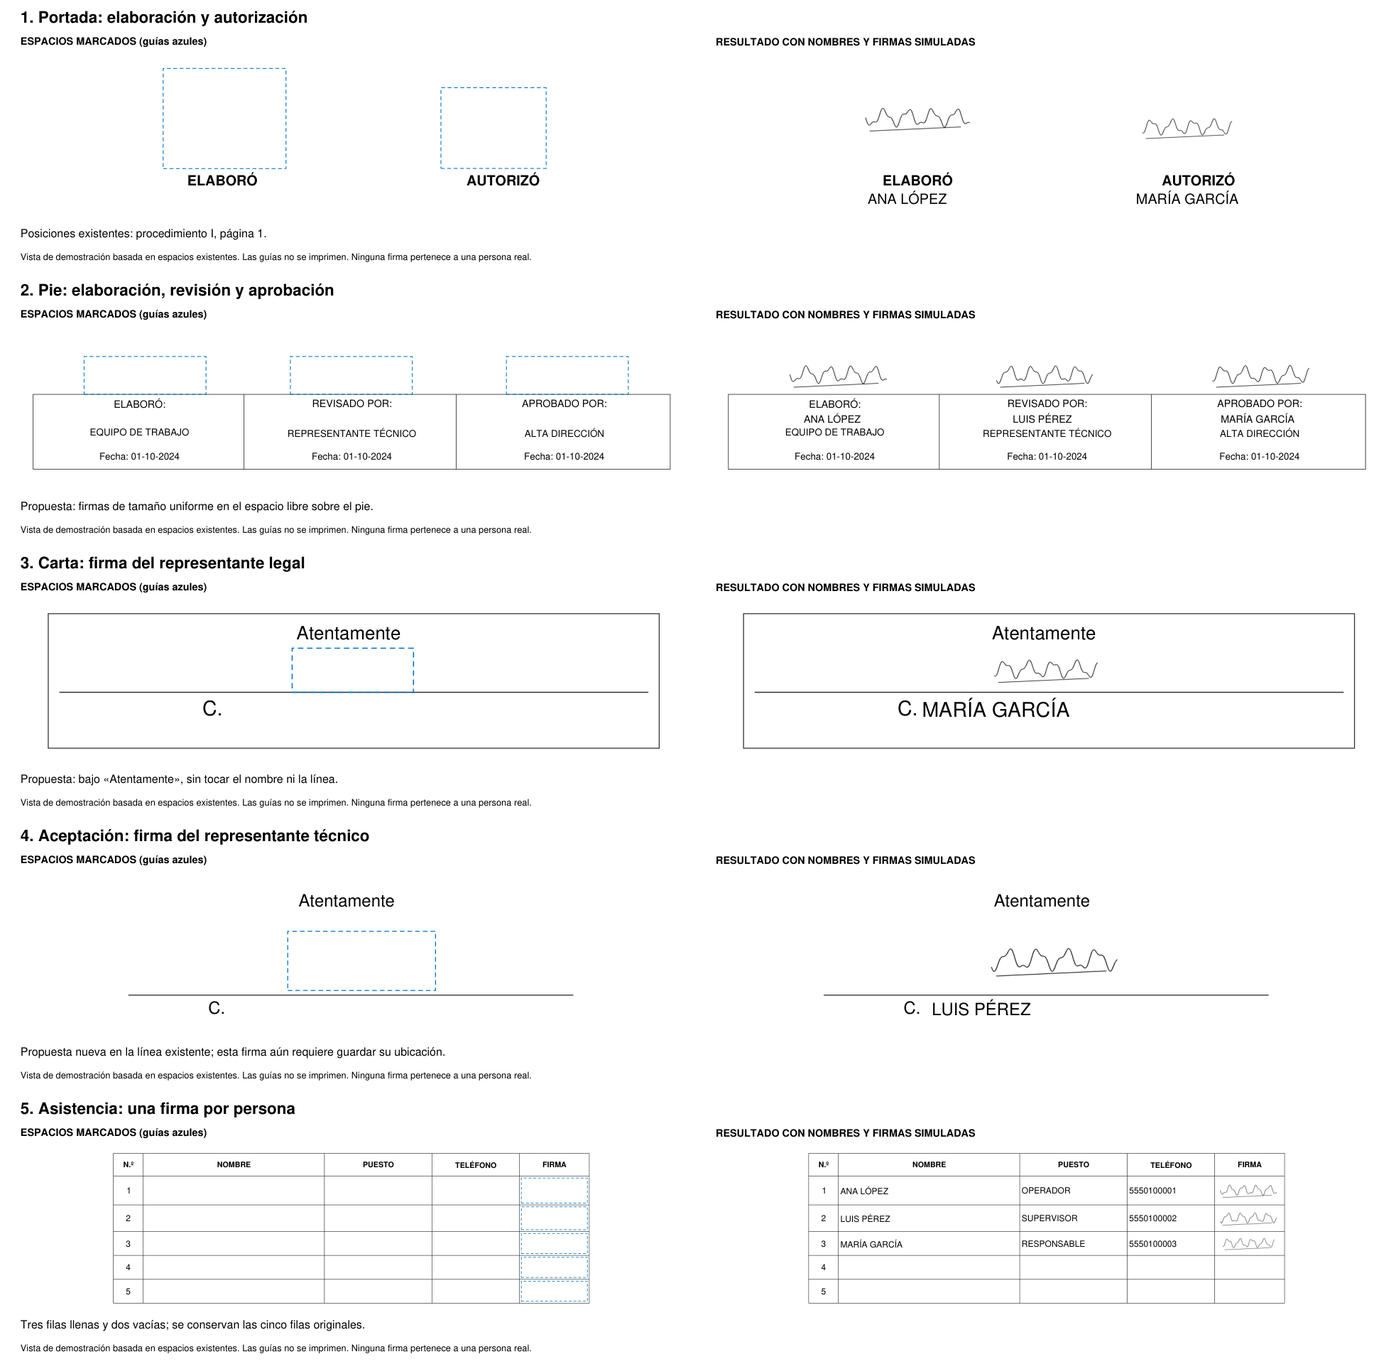
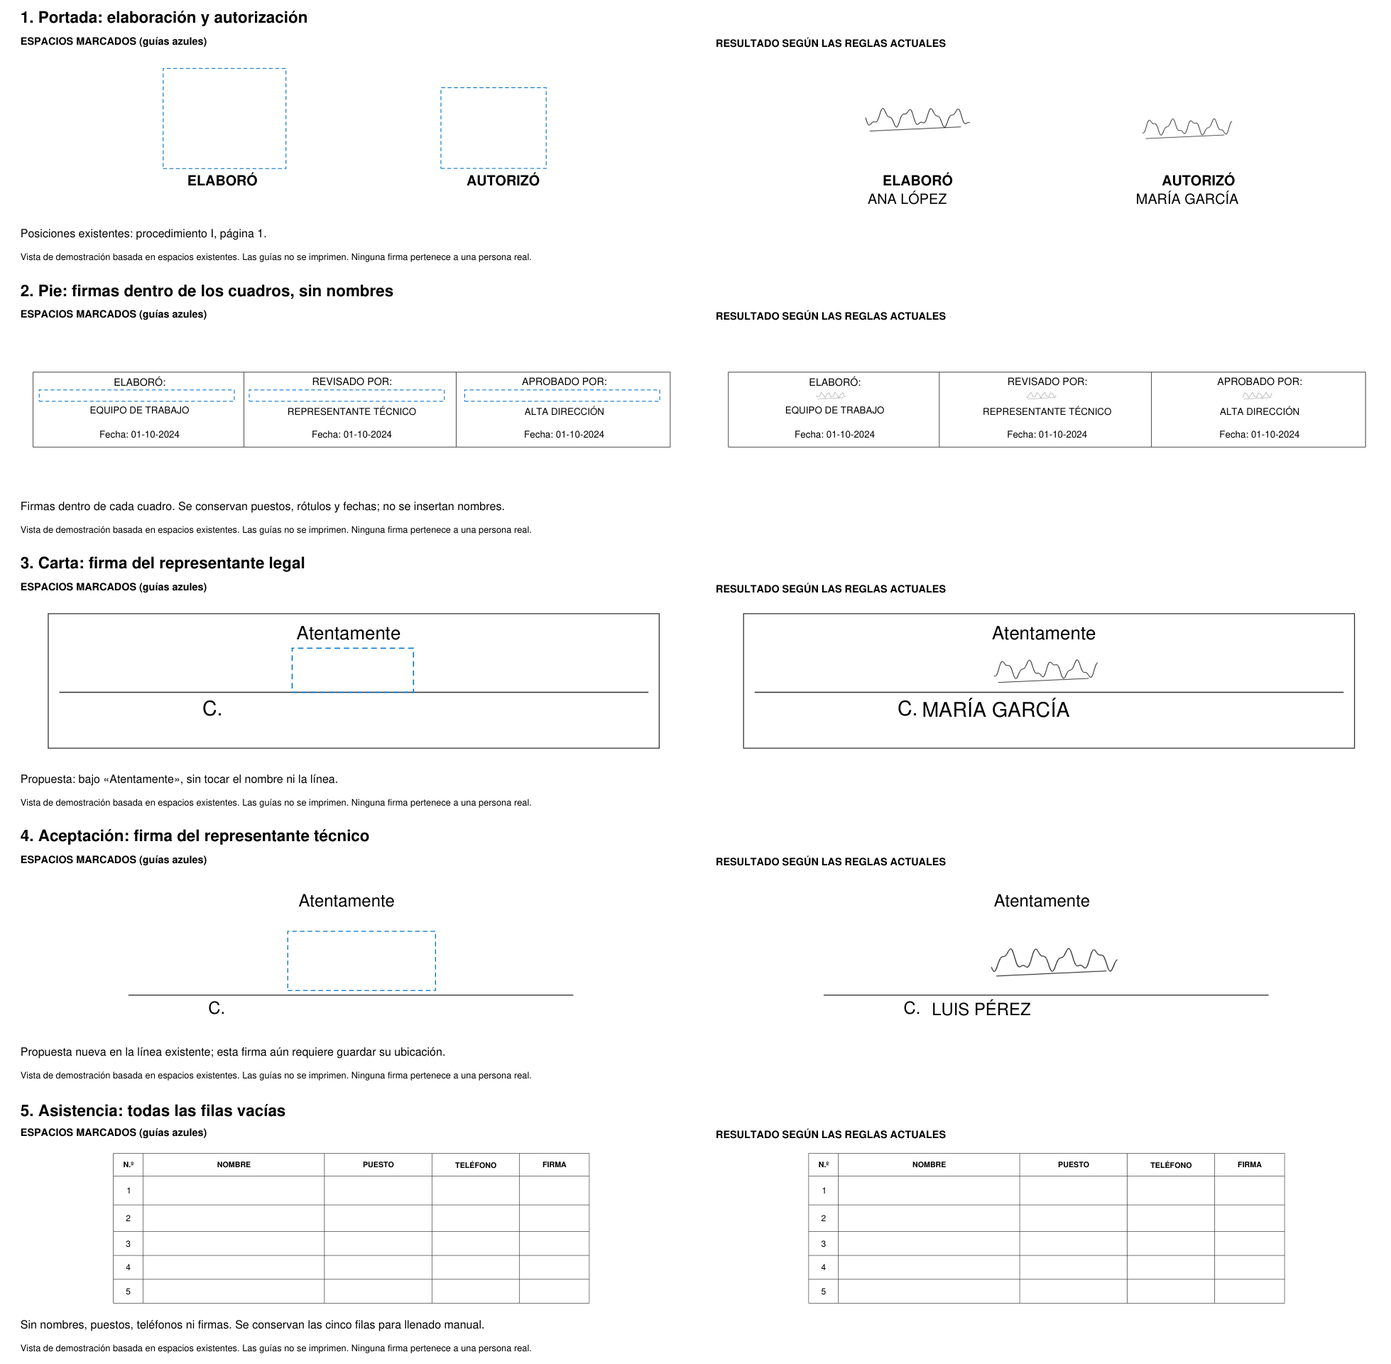
Keep footer signatures inside cells and attendance lists empty

diff --git a/sasisopa18.py b/sasisopa18.py
@@ -110,9 +110,25 @@ def slot_value(data,slot,doc_id):
 
 
 def slots_for(layout,data,doc_id,page):
- customs=[b for b in data['bindings'] if b['doc']==doc_id and b['page']==page]
+ spec=layout['pages'][page]
+ base=spec['slots']
+ # The blank name gaps in the existing footer cells are the signature spaces.
+ footer={s['key'].split('.')[1]:s for s in base
+         if page>0 and s['key'] in ('rol.elabora.nombre','rol.revisa.nombre','rol.autoriza.nombre')
+         and s['rect'][1]>spec['size'][3]*.65}
+ protected={s['id'] for s in base if s['key'].startswith('tabla.') or
+            (s['key'].startswith('rol.') and s['key'].split('.')[1] in footer
+             and s['key'].endswith(('.nombre','.firma')))}
+ customs=[b for b in data['bindings'] if b['doc']==doc_id and b['page']==page
+          and b.get('replace_id') not in protected and not b['key'].startswith('tabla.')]
+ attendance=[fitz.Rect(s['rect']) for s in base if s['key'].startswith('tabla.')]
+ if any(any(fitz.Rect(b['rect']).intersects(r) for r in attendance) for b in customs):
+  raise ValueError('Las listas de asistencia deben permanecer vacías. Quita las ubicaciones personalizadas sobre sus filas.')
  replaced={b.get('replace_id') for b in customs}
- return [s for s in layout['pages'][page]['slots'] if s['id'] not in replaced]+customs
+ result=[s for s in base if s['id'] not in replaced and s['id'] not in protected]
+ for role,name in footer.items():
+  result.append({**name,'id':name['id']+'.firma','key':f'rol.{role}.firma','kind':'image','clear':True,'locked':True})
+ return result+customs
 
 
 def destination_keys(maps,data,selected):
@@ -310,6 +326,8 @@ def _image(page,slot,path):
 
 def render_page(doc,index,layout,data,id,fonts):
  page=doc[index];slots=slots_for(layout,data,id,index);ops=[];notes=[];extra_erases=[]
+ # Attendance is manual, including when an older profile still contains row data.
+ attendance=[s for s in layout['pages'][index]['slots'] if s['key'].startswith('tabla.')]
  if list(page.rect)!=layout['pages'][index]['size']:raise ValueError('Las dimensiones del PDF no coinciden con la base.')
  for s in slots:
   value=slot_value(data,s,id)
@@ -347,11 +365,13 @@ def render_page(doc,index,layout,data,id,fonts):
   else:
    font,_,_=fonts.get(s.get('font','ArialMT'),value)
    _layout(font,value,_logical_rect(s),s.get('size',9),s.get('min_size',s.get('size',9)))
+ for cell in attendance:page.add_redact_annot(cell['rect'],fill=None,cross_out=False)
  for old in extra_erases:
   if old.get('kind')=='image':page.add_redact_annot(old['rect'],fill=None,cross_out=False)
  for s,value in ops:
   if s.get('kind')=='image' and s.get('clear',True):page.add_redact_annot(s['rect'],fill=None,cross_out=False)
  if page.first_annot:page.apply_redactions(images=2,graphics=0,text=1)
+ for cell in attendance:page.add_redact_annot(cell['rect'],fill=None,cross_out=False)
  for old in extra_erases:
   if old.get('kind','text')=='text':
    r=fitz.Rect(old.get('erase_rect',old['rect']));r+=(.02,r.height*.15,-.02,-r.height*.15);page.add_redact_annot(r,fill=None,cross_out=False)
@@ -392,7 +412,7 @@ def generate(templates,out,data,selected=None,merge=False):
   id=meta['id']
   if id not in selected:continue
   blob=_source(templates,meta);layout=maps[id]
-  active=any(slot_value(data,s,id) for pi in range(len(layout['pages'])) for s in slots_for(layout,data,id,pi))
+  active=any(s['key'].startswith('tabla.') for p in layout['pages'] for s in p['slots']) or any(slot_value(data,s,id) for pi in range(len(layout['pages'])) for s in slots_for(layout,data,id,pi))
   if active:
    with fitz.open(stream=blob,filetype='pdf') as doc:
     fonts=FontBook(doc)

diff --git a/scripts/vistas_firmas.py b/scripts/vistas_firmas.py
@@ -69,13 +69,9 @@ def generate(folder):
         text(page,[x+4,710,x+503/3-4,722],job,7.5,align=1)
         text(page,[x+4,729,x+503/3-4,741],'Fecha: 01-10-2024',7.5,align=1)
     keys={f'rol.{role}.{field}' for role in ('elabora','revisa','autoriza') for field in ('nombre','firma')}
-    slots=choose(maps,'II',20,keys)
-    for slot in slots:
-        if slot['key'].endswith('.firma'):
-            center=(slot['rect'][0]+slot['rect'][2])/2
-            slot['rect']=[center-48.12,656.04,center+48.12,685.9]
-    cases.append(('02-pie-tres-firmas','2. Pie: elaboración, revisión y aprobación',doc,slots,copy.deepcopy(data),
-                  fitz.Rect(45,645,567,752),'Propuesta: firmas de tamaño uniforme en el espacio libre sobre el pie.','proposed_uniform_size'))
+    slots=[s for s in engine.slots_for(maps['II'],data,'II',19) if s['key'] in keys]
+    cases.append(('02-pie-tres-firmas','2. Pie: firmas dentro de los cuadros, sin nombres',doc,slots,copy.deepcopy(data),
+                  fitz.Rect(45,680,567,752),'Firmas dentro de cada cuadro. Se conservan puestos, rótulos y fechas; no se insertan nombres.','inside_cells_no_names'))
 
     # Legal representative: leave a gap below Atentamente and above the line.
     doc=base_doc();page=doc[0]
@@ -119,8 +115,8 @@ def generate(folder):
     for i in range(5):
         text(page,[67,rows[i][0]+3,94,rows[i][1]-3],str(i+1),9,align=1)
         if i<3:linked['table_people'][f'tabla.I.10.2.{i}']=str(i)
-    cases.append(('05-lista-asistencia','5. Asistencia: una firma por persona',doc,slots,linked,
-                  fitz.Rect(55,top-8,576,bottom+9),'Tres filas llenas y dos vacías; se conservan las cinco filas originales.','existing'))
+    cases.append(('05-lista-asistencia','5. Asistencia: todas las filas vacías',doc,slots,linked,
+                  fitz.Rect(55,top-8,576,bottom+9),'Sin nombres, puestos, teléfonos ni firmas. Se conservan las cinco filas para llenado manual.','existing'))
 
     overview=fitz.open();board=overview.new_page(width=1224,height=1200)
     reports=[]
@@ -128,10 +124,10 @@ def generate(folder):
         pair=fitz.open();sheet=pair.new_page(width=1224,height=240)
         text(sheet,[18,5,1205,28],title,14,True)
         text(sheet,[18,30,602,44],'ESPACIOS MARCADOS (guías azules)',9,True)
-        text(sheet,[630,30,1206,44],'RESULTADO CON NOMBRES Y FIRMAS SIMULADAS',9,True)
+        text(sheet,[630,30,1206,44],'RESULTADO SEGÚN LAS REGLAS ACTUALES',9,True)
         base_bytes=doc.tobytes()
         for slot in slots:
-            if slot['key'].endswith('.firma'):
+            if slot['key'].endswith('.firma') and not slot['key'].startswith('tabla.'):
                 doc[0].draw_rect(fitz.Rect(slot['rect']),color=(0,.45,.8),width=.6,dashes='[3 2]')
         sheet.show_pdf_page(fitz.Rect(18,48,600,194),doc,0,clip=clip)
         clean=fitz.open(stream=base_bytes,filetype='pdf')
@@ -140,7 +136,7 @@ def generate(folder):
         layout={'pages':[{'size':[0.,0.,612.,792.],'slots':slots,'tables':[]}]}
         engine.render_page(clean,0,layout,project,'DEMO',engine.FontBook(clean))
         assert drawings(clean[0])==before
-        image_slots=[s for s in slots if s['key'].endswith('.firma') and engine.resolve(project,s['key'],'DEMO')]
+        image_slots=[s for s in slots if s['key'].endswith('.firma') and not s['key'].startswith('tabla.') and engine.resolve(project,s['key'],'DEMO')]
         for slot in image_slots:
             assert any(fitz.Rect(slot['rect']).contains(fitz.Rect(im['bbox'])+(.001,.001,-.001,-.001)) for im in clean[0].get_image_info())
         sheet.show_pdf_page(fitz.Rect(630,48,1212,194),clean,0,clip=clip)

diff --git a/editor_sasisopa.py b/editor_sasisopa.py
@@ -168,24 +168,7 @@ class Editor:
   for w in self.table_box.winfo_children():w.destroy()
   table=getattr(self,'table_labels',{}).get(self.table_selector.get())
   if not table:return
-  choices=['']+list(self.choice_to_id)
-  for i in range(table['rows']):
-   prefix=f"tabla.{table['id']}.{i}";row=ttk.Frame(self.table_box);row.pack(fill='x',pady=(8,2));ttk.Label(row,text='Fila '+str(i+1)).pack(side='left')
-   choice=tk.StringVar(value=self.id_to_choice.get(self.data.get('table_people',{}).get(prefix,''),''))
-   combo=ttk.Combobox(row,textvariable=choice,values=choices,state='readonly');combo.pack(side='left',fill='x',expand=True,padx=5)
-   for key in table['columns']:
-    full=prefix+'.'+key;value=engine.resolve(self.data,full,self.doc_selector.get());v=self.entry(self.table_box,key.capitalize(),self.table_vars,full,value)
-    if choice.get():
-     v.entry.configure(state='readonly')
-     if v.upload:v.upload.configure(state='disabled')
-   def assign(event=None,prefix=prefix,choice=choice):
-    person=self.choice_to_id.get(choice.get(),'')
-    self.data.setdefault('table_people',{})[prefix]=person
-    for key in table['columns']:
-     full=prefix+'.'+key;self.data['tables'][full]=''
-     if full in self.table_vars:self.table_vars[full].set('')
-    self.change_table();self.schedule()
-   combo.bind('<<ComboboxSelected>>',assign)
+  ttk.Label(self.table_box,text='Esta lista se entrega vacía para llenarla manualmente.\nNo se insertan nombres, puestos, teléfonos ni firmas.\nSe conservan los encabezados y las filas originales.',wraplength=340).pack(anchor='w',padx=8,pady=12)
  def refresh_field_choices(self):
   fields={s['label']:s['id'] for s in self.inventory['fields'] if s['scope']!='persona'}
   for role in self.inventory['roles']:
@@ -238,6 +221,8 @@ class Editor:
   data=self.capture();index=int(self.page.get())-1;point=fitz.Point(x/self.scale,y/self.scale);slots=engine.slots_for(self.maps[self.doc_selector.get()],data,self.doc_selector.get(),index)
   found=next((s for s in reversed(slots) if fitz.Rect(s['rect']).contains(point)),None)
   self.current_slot=found
+  if found and found.get('locked'):
+   self.status.set('Esta firma se ajusta al espacio interior del cuadro; su posición se conserva.');return
   if found:
    label=next((label for label,key in self.field_keys.items() if key==found['key']),None)
    if label:self.field_choice.set(label)
@@ -248,6 +233,7 @@ class Editor:
   if not self.drag:return
   x,y=self.drag;self.drag=None;u=self.canvas.canvasx(event.x);v=self.canvas.canvasy(event.y)
   try:
+   if self.current_slot and self.current_slot.get('locked'):raise ValueError('La firma debe permanecer dentro del cuadro original.')
    key=self.field_keys[self.field_choice.get()];rect=[min(x,u)/self.scale,min(y,v)/self.scale,max(x,u)/self.scale,max(y,v)/self.scale];size=float(self.binding_size.get());kind='image' if key.endswith(('.logo','.firma')) else 'text'
    binding={'id':'B'+uuid.uuid4().hex,'doc':self.doc_selector.get(),'page':int(self.page.get())-1,'key':key,'rect':rect,'font':'Arial-BoldMT' if key=='estacion.razon_social' else 'ArialMT','size':size,'min_size':8 if key=='estacion.direccion' and size>=8 else size,'align':2 if key in ('estacion.direccion','estacion.razon_social') else 0,'valign':'top' if key in ('estacion.direccion','estacion.razon_social') else 'middle','kind':kind,'clear':kind!='image' or key.endswith('.logo')}
    replaced_custom=None

diff --git a/tests/test_sasisopa18.py b/tests/test_sasisopa18.py
@@ -69,7 +69,13 @@ class Integration18Tests(unittest.TestCase):
   self.tmp=tempfile.TemporaryDirectory();self.addCleanup(self.tmp.cleanup);self.root=Path(self.tmp.name);self.out=self.root/'lote';self.p=e.empty_project()
  def test_empty_all_18_identical_and_merged_523(self):
   paths,warnings=e.generate(self.base,self.out,self.p,merge=True);self.assertEqual(len(paths),19);self.assertEqual(warnings,[])
-  for meta,path in zip(self.catalog['templates'],paths):self.assertEqual(path.read_bytes(),(self.base/meta['filename']).read_bytes())
+  for meta,path in zip(self.catalog['templates'],paths):
+   if not any(p['tables'] for p in self.maps[meta['id']]['pages']):self.assertEqual(path.read_bytes(),(self.base/meta['filename']).read_bytes())
+   else:
+    with fitz.open(path) as doc:
+     for pi,page in enumerate(self.maps[meta['id']]['pages']):
+      for slot in page['slots']:
+       if slot['key'].startswith('tabla.'):self.assertFalse(doc[pi].get_textbox(fitz.Rect(slot['rect'])).strip(),slot['key'])
   with fitz.open(paths[-1]) as doc:self.assertEqual(len(doc),523);self.assertEqual(len(doc.get_toc()),18)
  def test_all_18_common_data_and_structure_preserved(self):
   self.p['values']={'estacion.numero':'E-99999','estacion.razon_social':'ESTACION EJEMPLO SA','estacion.direccion':'AV. PRINCIPAL 123, COL. CENTRO, PUEBLA, C.P. 72000','documento.revision':'2','documento.fecha_revision':'15/10/2026'}
@@ -118,10 +124,21 @@ class Integration18Tests(unittest.TestCase):
   with fitz.open(paths[0]) as doc:
    for pi,info in enumerate(self.maps['I']['pages']):
     images=doc[pi].get_image_info()
-    for slot in info['slots']:
-     if slot['key']=='estacion.logo' or slot['key']=='rol.autoriza.firma' or slot['key']==prefix+'.firma':
+    for slot in e.slots_for(self.maps['I'],self.p,'I',pi):
+     if slot['key']=='estacion.logo' or slot['key']=='rol.autoriza.firma':
       matches=[im for im in images if im['width']>1 and (fitz.Rect(slot['rect'])+(-.002,-.002,.002,.002)).contains(fitz.Rect(im['bbox']))]
       self.assertTrue(matches,(pi+1,slot['key']))
+ def test_footer_has_only_signatures_inside_cells(self):
+  sig=self.root/'footer.png';signature_png([[(10,40),(110,80),(290,40)]]).save(sig)
+  self.p['people']=[{'id':'A','nombre':'NOMBRE NO VISIBLE','firma':str(sig)}]
+  self.p['roles']={role:'A' for role in ('elabora','revisa','autoriza')}
+  paths,_=e.generate(self.base,self.out,self.p,selected=['II'])
+  with fitz.open(paths[0]) as doc,fitz.open(self.base/'PROCEDIMIENTO II.pdf') as original:
+   page=doc[19];self.assertNotIn('NOMBRE NO VISIBLE',page.get_text())
+   self.assertEqual(page.get_text(),original[19].get_text())
+   cells=[s for s in e.slots_for(self.maps['II'],self.p,'II',19) if s['key'].endswith('.firma')]
+   self.assertEqual(len(cells),3)
+   for slot in cells:self.assertTrue(any((fitz.Rect(slot['rect'])+(-.002,-.002,.002,.002)).contains(fitz.Rect(im['bbox'])) for im in page.get_image_info()))
  def test_moving_revision_clears_original_value(self):
   old=next(slot for slot in self.maps['I']['pages'][1]['slots'] if slot['key']=='documento.revision' and slot['rect'][1]<90)
   self.p['values']={'documento.revision':'2'};self.p['bindings']=[{'id':'B1','doc':'I','page':1,'key':'documento.revision','replace_id':old['id'],'rect':[50,450,100,470],'size':9,'min_size':9}]

diff --git a/tests/test_signature_policy.py b/tests/test_signature_policy.py
@@ -1,0 +1,37 @@
+"""Current footer and manual attendance rules, independent of private PDFs."""
+import unittest
+import tempfile
+from pathlib import Path
+import fitz
+from PIL import Image
+import sasisopa18 as engine
+
+class SignaturePolicyTests(unittest.TestCase):
+ def test_footer_signatures_use_name_gaps_and_preserve_cover_names(self):
+  _,maps=engine.configuration();data=engine.empty_project();count=0
+  for key,layout in maps.items():
+   for pi,page in enumerate(layout['pages']):
+    slots=engine.slots_for(layout,data,key,pi)
+    for old in page['slots']:
+     if pi and old['key'] in ('rol.elabora.nombre','rol.revisa.nombre','rol.autoriza.nombre') and old['rect'][1]>page['size'][3]*.65:
+      count+=1
+      self.assertFalse(any(s['key']==old['key'] for s in slots))
+      image=next(s for s in slots if s['key']==old['key'].replace('.nombre','.firma'))
+      self.assertEqual(image['rect'],old['rect']);self.assertEqual(image['kind'],'image')
+  self.assertGreater(count,30)
+  self.assertTrue(any(s['key']=='rol.elabora.nombre' for s in engine.slots_for(maps['I'],data,'I',0)))
+ def test_stale_list_values_images_and_bindings_cannot_fill_attendance(self):
+  with tempfile.TemporaryDirectory() as folder:
+   image=Path(folder)/'signature.png';Image.new('RGB',(30,10),'red').save(image)
+   doc=fitz.open();page=doc.new_page(width=200,height=200)
+   page.draw_rect((20,40,180,90));page.insert_text((25,35),'NOMBRE / FIRMA');page.insert_text((25,60),'OLD JOB')
+   page.insert_image((110,50,150,65),filename=str(image))
+   slots=[{'id':'name','key':'tabla.X.0.nombre','rect':[22,42,98,88]}, {'id':'signature','key':'tabla.X.0.firma','kind':'image','rect':[102,42,178,88]}]
+   layout={'pages':[{'size':list(page.rect),'slots':slots,'tables':[]}]}
+   data=engine.empty_project();data['tables']={'tabla.X.0.nombre':'SHOULD NOT PRINT','tabla.X.0.firma':str(image)}
+   before=page.get_drawings()
+   engine.render_page(doc,0,layout,data,'X',engine.FontBook(doc))
+   self.assertEqual(page.get_text().strip(),'NOMBRE / FIRMA');self.assertFalse(page.get_image_info())
+   self.assertEqual(page.get_drawings(),before)
+   data['bindings']=[{'doc':'X','page':0,'id':'custom','key':'estacion.numero','rect':[30,50,80,70]}]
+   with self.assertRaisesRegex(ValueError,'vacías'):engine.slots_for(layout,data,'X',0)

diff --git a/tests/test_editor18.py b/tests/test_editor18.py
@@ -33,10 +33,9 @@ class Editor18Tests(unittest.TestCase):
   self.assertEqual(len(ed.data['people']),1);person=ed.data['people'][0];label=ed.id_to_choice[person['id']]
   ed.role_vars['representante_legal'].set(label);ed.role_vars['representante_tecnico'].set(label);ed.capture()
   self.assertEqual(ed.data['roles']['representante_legal'],ed.data['roles']['representante_tecnico'])
-  first_combo=next(w for w in descendants(ed.table_box) if isinstance(w,ttk.Combobox));first_combo.set(label);first_combo.event_generate('<<ComboboxSelected>>');self.window.update()
-  prefix=next(iter(ed.data['table_people']));self.assertEqual(engine.resolve(ed.capture(),prefix+'.nombre','I'),'PERSONA UNO')
-  person['nombre']='PERSONA DOS';ed.refresh_people();ed.change_table();self.assertEqual(ed.table_vars[prefix+'.nombre'].get(),'PERSONA DOS')
-  ed.people_list.selection_set(person['id']);ed.delete_person();self.assertFalse(ed.data['people']);self.assertEqual(ed.table_vars[prefix+'.nombre'].get(),'')
+  ed.change_table();self.assertEqual(ed.table_vars,{})
+  self.assertFalse(any(isinstance(w,ttk.Combobox) for w in descendants(ed.table_box)))
+  ed.people_list.selection_set(person['id']);ed.delete_person();self.assertFalse(ed.data['people'])
   ed.doc_selector.set('VI');ed.page.set(28);ed.data['documents'].setdefault('VI',{})['dato.CURP']='PRUEBA123';ed.build_doc_fields();ed.refresh_field_choices();ed.update_preview();self.window.update()
   ed.field_choice.set('dato.CURP');ed.place_mode.set(True);ed.canvas.xview_moveto(0);ed.canvas.yview_moveto(0)
   ed.pointer_down(SimpleNamespace(x=50,y=440));ed.pointer_move(SimpleNamespace(x=210,y=465));ed.pointer_up(SimpleNamespace(x=210,y=465));self.assertEqual(len(ed.data['bindings']),1);self.assertIsNotNone(ed.photo)

diff --git a/README.md b/README.md
@@ -31,7 +31,8 @@ Los proyectos nuevos incluyen el logo PEMEX preparado a partir de la imagen apor
 - **Personas:** agrega las necesarias, con nombre, puesto, iniciales, empresa, contacto, domicilio para notificaciones y firma. Puedes subir PNG/JPG o dibujar la firma con el mouse.
 - **Funciones:** selecciona a la persona de cada función. Una persona puede ocupar varias funciones; los cargos se asignan por separado. Selecciona **Autoriza** para las portadas y los bloques de aprobación, aunque sea la misma persona que el representante legal. Alta dirección y representante legal no se deducen uno del otro.
 - **Documentos:** marca cuáles generar, elige si quieres también el PDF unido y captura los datos particulares del documento que estás viendo. Las fechas de revisión, reunión, designación y aceptación son independientes. Una revisión particular se aplica a su documento y a las referencias identificadas a esa versión; no cambia automáticamente la versión de otros procedimientos.
-- **Listas:** selecciona una lista detectada y asigna personas por fila. Sus datos y firmas se toman de la ficha de la persona, de modo que corregir un nombre actualiza sus filas vinculadas. También puedes dejar la selección vacía y escribir la fila manualmente.
+- **Listas:** se entregan vacías para llenado manual, sin nombres, puestos, teléfonos ni firmas. Se conservan las filas, columnas y numeración originales.
+- **Firmas del pie:** van dentro de los cuadros de elaboración, revisión y aprobación, sin nombres de personas y conservando los textos fijos y fechas.
 
 Los campos vacíos conservan el contenido de la **base limpia**: no recuperan nombres ni firmas retirados. Se conservan puestos, fechas históricas, horarios y textos fijos salvo cuando capturas un cambio en un campo asignado. Las firmas se colocan únicamente en espacios existentes. Las tablas mantienen su capacidad: no se agregan filas ni bloques de firma.
 

diff --git a/docs/ubicacion-firmas.md b/docs/ubicacion-firmas.md
@@ -2,7 +2,7 @@
 
 [Ver las cinco vistas juntas](firmas-propuesta/00-todas-las-firmas.png)
 
-Cada imagen muestra **el espacio marcado a la izquierda** y **el resultado con nombres y firmas simuladas a la derecha**. Las guías azules sirven para explicar la posición y no forman parte del documento final.
+Cada imagen muestra **el espacio marcado a la izquierda** y **el resultado a la derecha**. Las guías azules sirven para explicar la posición y no forman parte del documento final.
 
 Son vistas de demostración basadas en la geometría de los espacios existentes. No se muestran documentos privados ni firmas reales. Las posiciones señaladas como propuestas todavía no se han aplicado a las reglas del programa.
 
@@ -14,7 +14,7 @@ Dos espacios existentes, uno para quien elabora y otro para quien autoriza. La f
 
 ## 2. Pie de página: elaboración, revisión y aprobación
 
-Se propone aprovechar el espacio libre sobre cada columna para que las tres firmas tengan un tamaño uniforme. Los nombres permanecen en sus campos y las fechas existentes se conservan.
+Las firmas quedan dentro de cada cuadro, sin nombres de personas. Se conservan los rótulos, puestos y fechas originales. La firma se ajusta proporcionalmente al espacio disponible.
 
 ![Pie con tres firmas](firmas-propuesta/02-pie-tres-firmas.png)
 
@@ -32,7 +32,7 @@ La carta ya tiene una línea para firmar. Se muestra una propuesta en ese espaci
 
 ## 5. Lista de asistencia
 
-Cada persona firma en su propia casilla de la columna FIRMA. Se llenan tres filas y se dejan dos vacías para comprobar que no se recorren personas ni se agregan filas.
+Todas las filas se entregan vacías: sin nombres, puestos, teléfonos ni firmas. Se conservan las columnas, la numeración y las filas originales para llenarlas manualmente. Los datos de perfiles anteriores tampoco se insertan.
 
 ![Lista de asistencia](firmas-propuesta/05-lista-asistencia.png)
 
